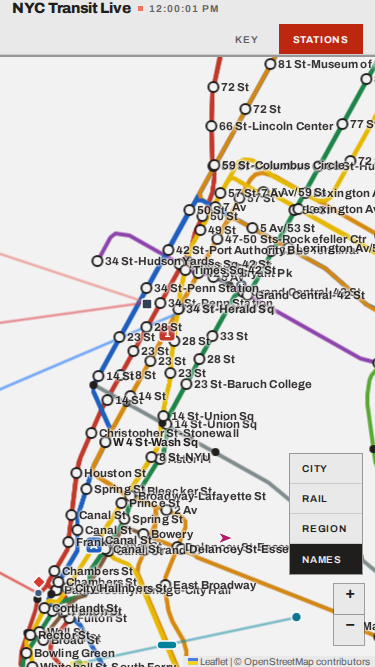
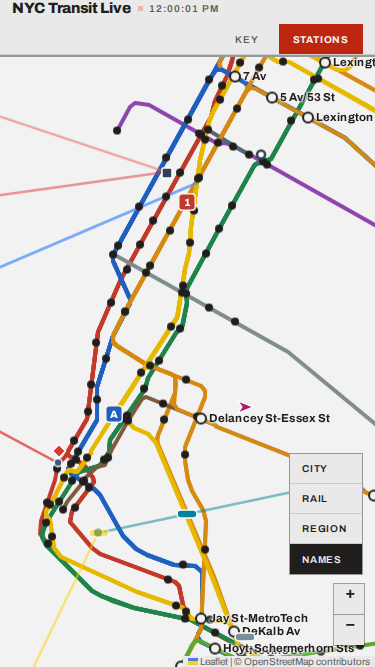
MR2 round 3: the after captures regenerated, and D2x asks the rider's question
Round 3 changed the drawing, so the four "after" captures were stale: the station
labels no longer paint over the train bullets, the bullet group is 6px, and the
fixture's one-trunk stations draw as dots. Regenerated from the same harness,
frozen clock and Midtown view as before.

And re-measuring them turned up a better assertion than the pixel count. Counting
route-coloured pixels with names on against names off still shows a delta, because
a label legitimately covers a RIBBON: the ribbons are at pane 390 and the labels at
460, and a name over a line is ordinary cartography. The claim was only ever about
the bullets, so D2x now asks it directly, in the page, at the pixel a rider looks
at: elementsFromPoint at each train bullet's centre, and no station label may
appear above it in the stack.

That assertion alone kills M9, which is worth more than the pixel arithmetic: it
is the question the box-versus-anchor measurement got wrong in round 2, asked in a
form that cannot be got wrong.

Claude-Session: https://claude.ai/code/session_017oZP4Mtd6BLoSvAeVaPrJz

diff --git a/tests/e2e/subway.spec.js b/tests/e2e/subway.spec.js
@@ -990,6 +990,28 @@ test("D2x. a station name is painted below every vehicle, which is the pane it i
     expect(tip.opacity, `${tip.name} draws at the ink the contrast was measured at`).toBe("1");
   }
 
+  /* AND THE RIDER'S OWN QUESTION, ASKED AT THE PIXEL: is anything painted over the bullet that
+     says which train this is. elementsFromPoint returns the stack front to back, so a label
+     above the marker would appear before it. This is the assertion the original defect would
+     have failed and the box-versus-anchor measurement that missed it could not make. */
+  const covered = await page.evaluate(() =>
+    [...trains.values()].map((record) => {
+      const el = record.marker.getElement();
+      const box = el.getBoundingClientRect();
+      const stack = document.elementsFromPoint(box.left + box.width / 2, box.top + box.height / 2);
+      const me = stack.indexOf(el);
+      return {
+        route: record.latest?.route_id,
+        labelsAbove: stack.slice(0, me === -1 ? stack.length : me).filter((n) => n.classList?.contains("stn-label"))
+          .length,
+      };
+    }),
+  );
+  expect(covered.length, "there are trains on this map").toBeGreaterThan(0);
+  for (const train of covered) {
+    expect(train.labelsAbove, `a station name is painted over the ${train.route} bullet`).toBe(0);
+  }
+
   // The pane the labels are in is below the vehicles and above the dots they name, and it is
   // NOT the pane Leaflet would have used.
   expect(where.labelPaneZ).toBeLessThan(where.markerPaneZ);

diff --git a/docs/reviews/map-redesign/mr2/PR-BODY.md b/docs/reviews/map-redesign/mr2/PR-BODY.md
@@ -23,7 +23,8 @@ and the contract tier aims every NJ Transit seam at its simulator as it always h
 | `98eaa4e` | round 2: an adversarial pass over the written diff |
 | `36b1a4e` | round 2 continued: the key derived from the data, and a toolbar to reach it |
 | `3d56e94` | round 3: the review's 17 findings, and four operator rulings |
-| `db047fe` | round 3: five specs the mutation run said were missing |
+| `418750c` | round 3: two specs the mutation run said were missing |
+| `db047fe` | round 3: three more specs the mutation run said were missing |
 | (tip) | round 3: the ledger and this body |
 
 ## Before and after
